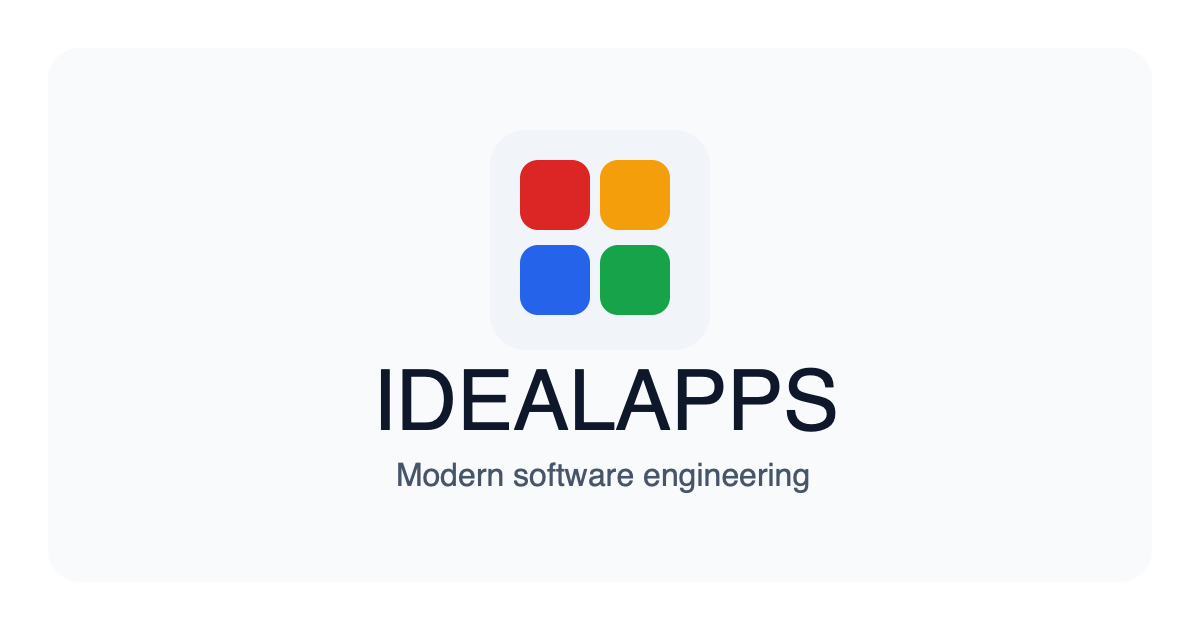
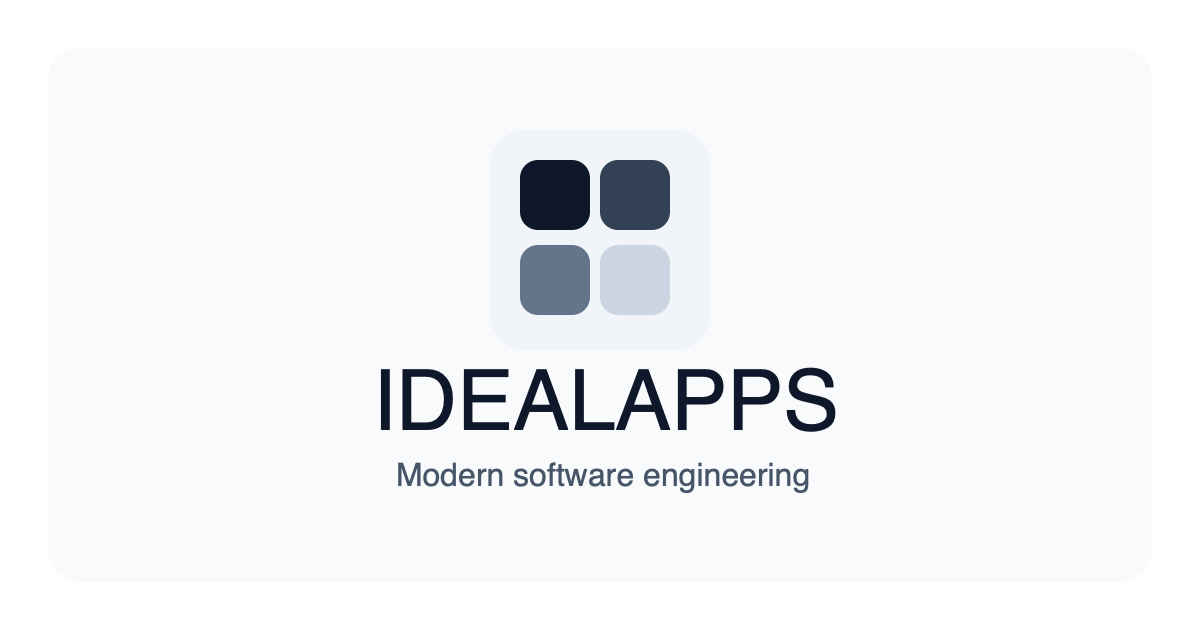
refactor: transition color palette to a monochrome slate theme

Changed region(s): [[0.4317, 0.2413, 0.5858, 0.5127]]

diff --git a/index.html b/index.html
@@ -65,10 +65,10 @@
           <div class="flex items-center justify-between gap-4 py-4">
             <a href="/" class="flex items-center gap-3 text-lg font-semibold tracking-wide text-slate-900">
             <span class="grid h-6 w-6 grid-cols-2 grid-rows-2 gap-0.5" aria-hidden="true">
-              <span class="h-full w-full rounded-sm bg-red-600"></span>
-              <span class="h-full w-full rounded-sm bg-amber-400"></span>
-              <span class="h-full w-full rounded-sm bg-blue-600"></span>
-              <span class="h-full w-full rounded-sm bg-green-600"></span>
+              <span class="h-full w-full rounded-sm bg-slate-900"></span>
+              <span class="h-full w-full rounded-sm bg-slate-700"></span>
+              <span class="h-full w-full rounded-sm bg-slate-500"></span>
+              <span class="h-full w-full rounded-sm bg-slate-300"></span>
             </span>
             <span>IDEALAPPS</span>
           </a>
@@ -77,22 +77,59 @@
               <a href="#services" class="transition hover:text-slate-900">Services</a>
               <a href="#approach" class="transition hover:text-slate-900">Approach</a>
               <a href="#contact" class="transition hover:text-slate-900">Contact</a>
-              <a href="#contact" class="rounded-full bg-blue-600 px-4 py-2 text-sm font-medium text-white transition hover:bg-blue-500">
+              <a href="https://bill.idealapps.ge" class="rounded-full border border-slate-200 bg-white px-4 py-2 text-sm font-medium text-slate-800 transition hover:bg-slate-100">
+                Login
+              </a>
+              <a href="#contact" class="rounded-full bg-slate-900 px-4 py-2 text-sm font-medium text-white transition hover:bg-slate-700">
                 Book a call
               </a>
             </nav>
           </div>
-          <button class="rounded-full border border-slate-200 p-2 text-slate-600 md:hidden" @click="open = !open" aria-label="Toggle navigation">
-            <svg xmlns="http://www.w3.org/2000/svg" fill="none" viewBox="0 0 24 24" stroke-width="1.8" stroke="currentColor" class="h-5 w-5">
+          <button
+            class="rounded-full border border-slate-200 bg-white p-2 text-slate-700 transition hover:bg-slate-100 hover:text-slate-900 md:hidden"
+            @click="open = !open"
+            :aria-expanded="open.toString()"
+            aria-label="Toggle navigation"
+          >
+            <svg x-show="!open" xmlns="http://www.w3.org/2000/svg" fill="none" viewBox="0 0 24 24" stroke-width="1.8" stroke="currentColor" class="h-5 w-5">
               <path stroke-linecap="round" stroke-linejoin="round" d="M3.75 6.75h16.5M3.75 12h16.5m-16.5 5.25h16.5" />
+            </svg>
+            <svg x-show="open" xmlns="http://www.w3.org/2000/svg" fill="none" viewBox="0 0 24 24" stroke-width="1.8" stroke="currentColor" class="h-5 w-5" style="display: none;">
+              <path stroke-linecap="round" stroke-linejoin="round" d="M6 18 18 6M6 6l12 12" />
             </svg>
           </button>
         </div>
-        <div x-show="open" x-collapse class="border-t border-slate-200 py-4 md:hidden">
-          <div class="flex flex-col gap-3 text-sm text-slate-600">
-            <a href="#services" class="transition hover:text-slate-900">Services</a>
-            <a href="#approach" class="transition hover:text-slate-900">Approach</a>
-            <a href="#contact" class="transition hover:text-slate-900">Contact</a>
+        <div
+          x-show="open"
+          x-transition.opacity.duration.150ms
+          @click.outside="open = false"
+          class="pb-4 md:hidden"
+          style="display: none;"
+        >
+          <div class="rounded-2xl border border-slate-200 bg-white p-3 shadow-lg shadow-slate-200/70">
+            <nav class="flex flex-col gap-1" aria-label="Mobile navigation">
+              <a href="#services" @click="open = false" class="flex items-center justify-between rounded-xl px-3.5 py-2.5 text-sm font-medium text-slate-700 transition hover:bg-slate-100 hover:text-slate-900">
+                <span>Services</span>
+                <span class="text-slate-400">→</span>
+              </a>
+              <a href="#approach" @click="open = false" class="flex items-center justify-between rounded-xl px-3.5 py-2.5 text-sm font-medium text-slate-700 transition hover:bg-slate-100 hover:text-slate-900">
+                <span>Approach</span>
+                <span class="text-slate-400">→</span>
+              </a>
+              <a href="#contact" @click="open = false" class="flex items-center justify-between rounded-xl px-3.5 py-2.5 text-sm font-medium text-slate-700 transition hover:bg-slate-100 hover:text-slate-900">
+                <span>Contact</span>
+                <span class="text-slate-400">→</span>
+              </a>
+            </nav>
+            <div class="my-2.5 border-t border-slate-100"></div>
+            <div class="grid grid-cols-2 gap-2.5">
+              <a href="https://bill.idealapps.ge" class="rounded-full border border-slate-200 bg-white px-4 py-2.5 text-center text-sm font-medium text-slate-800 transition hover:bg-slate-100">
+                Login
+              </a>
+              <a href="#contact" @click="open = false" class="rounded-full bg-slate-900 px-4 py-2.5 text-center text-sm font-medium text-white transition hover:bg-slate-700">
+                Book a call
+              </a>
+            </div>
           </div>
         </div>
         </div>
@@ -101,8 +138,8 @@
       <main class="mx-auto max-w-7xl px-4 sm:px-6 lg:px-8">
         <section class="grid items-center gap-10 py-20 lg:grid-cols-[1.1fr_0.9fr] lg:py-28">
           <div>
-            <div class="mb-6 inline-flex items-center gap-2 rounded-full border border-green-600/20 bg-green-50 px-3 py-1 text-sm text-green-700">
-              <span class="h-2.5 w-2.5 rounded-full bg-green-500"></span>
+            <div class="mb-6 inline-flex items-center gap-2 rounded-full border border-slate-300 bg-slate-100 px-3 py-1 text-sm text-slate-700">
+              <span class="h-2.5 w-2.5 rounded-full bg-slate-900"></span>
               Reliable delivery for modern infrastructure and products
             </div>
             <h1 class="max-w-3xl text-4xl font-semibold leading-tight sm:text-5xl lg:text-6xl">
@@ -112,7 +149,7 @@
               We help businesses build dependable applications, secure systems and automate delivery with a practical blend of software engineering, system administration and DevOps.
             </p>
             <div class="mt-8 flex flex-wrap gap-4">
-              <a href="#contact" class="rounded-full bg-blue-600 px-5 py-3 text-sm font-semibold text-white transition hover:bg-blue-500">
+              <a href="#contact" class="rounded-full bg-slate-900 px-5 py-3 text-sm font-semibold text-white transition hover:bg-slate-700">
                 Start a project
               </a>
               <a href="#services" class="rounded-full border border-slate-200 bg-white px-5 py-3 text-sm font-semibold text-slate-800 transition hover:bg-slate-100">
@@ -132,7 +169,7 @@
             <div class="mt-8 space-y-4">
               <div class="rounded-2xl border border-slate-200 bg-white p-4">
                 <div class="flex items-start gap-3">
-                  <div class="rounded-xl bg-green-600/15 p-2 text-green-600">
+                  <div class="rounded-xl bg-slate-900/10 p-2 text-slate-900">
                     <svg xmlns="http://www.w3.org/2000/svg" fill="none" viewBox="0 0 24 24" stroke-width="1.7" stroke="currentColor" class="h-5 w-5">
                       <path stroke-linecap="round" stroke-linejoin="round" d="M9 12.75 11.25 15 15 9.75M21 12a9 9 0 1 1-18 0 9 9 0 0 1 18 0Z" />
                     </svg>
@@ -146,7 +183,7 @@
 
               <div class="rounded-2xl border border-slate-200 bg-white p-4">
                 <div class="flex items-start gap-3">
-                  <div class="rounded-xl bg-green-600/15 p-2 text-green-600">
+                  <div class="rounded-xl bg-slate-900/10 p-2 text-slate-900">
                     <svg xmlns="http://www.w3.org/2000/svg" fill="none" viewBox="0 0 24 24" stroke-width="1.7" stroke="currentColor" class="h-5 w-5">
                       <path stroke-linecap="round" stroke-linejoin="round" d="M12 3.75 4.5 6.75v5.25c0 4.5 3.1 7.5 7.5 8.25 4.4-.75 7.5-3.75 7.5-8.25V6.75L12 3.75Z" />
                     </svg>
@@ -160,7 +197,7 @@
 
               <div class="rounded-2xl border border-slate-200 bg-white p-4">
                 <div class="flex items-start gap-3">
-                  <div class="rounded-xl bg-green-600/15 p-2 text-green-600">
+                  <div class="rounded-xl bg-slate-900/10 p-2 text-slate-900">
                     <svg xmlns="http://www.w3.org/2000/svg" fill="none" viewBox="0 0 24 24" stroke-width="1.7" stroke="currentColor" class="h-5 w-5">
                       <path stroke-linecap="round" stroke-linejoin="round" d="M13.5 2.25 4.5 13.5h6l-1.5 8.25 9-11.25h-6l1.5-8.25Z" />
                     </svg>
@@ -183,7 +220,7 @@
 
           <div class="mt-10 grid gap-6 lg:grid-cols-3">
             <article class="rounded-3xl border border-slate-200 bg-white p-7 shadow-lg shadow-slate-200/70 backdrop-blur">
-              <div class="mb-5 inline-flex rounded-2xl bg-green-600/15 p-3 text-green-600">
+              <div class="mb-5 inline-flex rounded-2xl bg-slate-900/10 p-3 text-slate-900">
                 <svg xmlns="http://www.w3.org/2000/svg" fill="none" viewBox="0 0 24 24" stroke-width="1.5" stroke="currentColor" class="h-6 w-6">
                   <path stroke-linecap="round" stroke-linejoin="round" d="M17.25 6.75 22.5 12l-5.25 5.25m-10.5 0L1.5 12l5.25-5.25m7.5-3-4.5 16.5" />
                 </svg>
@@ -200,7 +237,7 @@
             </article>
 
             <article class="rounded-3xl border border-slate-200 bg-white p-7 shadow-lg shadow-slate-200/70 backdrop-blur">
-              <div class="mb-5 inline-flex rounded-2xl bg-green-600/15 p-3 text-green-600">
+              <div class="mb-5 inline-flex rounded-2xl bg-slate-900/10 p-3 text-slate-900">
                 <svg xmlns="http://www.w3.org/2000/svg" fill="none" viewBox="0 0 24 24" stroke-width="1.5" stroke="currentColor" class="h-6 w-6">
                   <path stroke-linecap="round" stroke-linejoin="round" d="m6.75 7.5 3 2.25-3 2.25m4.5 0h3m-9 8.25h13.5A2.25 2.25 0 0 0 21 18V6a2.25 2.25 0 0 0-2.25-2.25H5.25A2.25 2.25 0 0 0 3 6v12a2.25 2.25 0 0 0 2.25 2.25Z" />
                 </svg>
@@ -217,7 +254,7 @@
             </article>
 
             <article class="rounded-3xl border border-slate-200 bg-white p-7 shadow-lg shadow-slate-200/70 backdrop-blur">
-              <div class="mb-5 inline-flex rounded-2xl bg-green-600/15 p-3 text-green-600">
+              <div class="mb-5 inline-flex rounded-2xl bg-slate-900/10 p-3 text-slate-900">
                 <svg xmlns="http://www.w3.org/2000/svg" fill="none" viewBox="0 0 24 24" stroke-width="1.5" stroke="currentColor" class="h-6 w-6">
                   <path stroke-linecap="round" stroke-linejoin="round" d="M19.5 12c0-1.232-.046-2.453-.138-3.662a4.006 4.006 0 0 0-3.7-3.7 48.678 48.678 0 0 0-7.324 0 4.006 4.006 0 0 0-3.7 3.7c-.017.22-.032.441-.046.662M19.5 12l3-3m-3 3-3-3m-12 3c0 1.232.046 2.453.138 3.662a4.006 4.006 0 0 0 3.7 3.7 48.656 48.656 0 0 0 7.324 0 4.006 4.006 0 0 0 3.7-3.7c.017-.22.032-.441.046-.662M4.5 12l3 3m-3-3-3 3" />
                 </svg>
@@ -264,13 +301,13 @@
         </section>
 
         <section id="contact" class="py-16">
-          <div class="rounded-3xl border border-slate-200 bg-gradient-to-r from-blue-600/10 via-white to-amber-400/10 p-8 shadow-lg shadow-slate-200/70 sm:p-10">
+          <div class="rounded-3xl border border-slate-200 bg-gradient-to-r from-slate-200/70 via-white to-slate-100 p-8 shadow-lg shadow-slate-200/70 sm:p-10">
             <div class="flex flex-col gap-6 lg:flex-row lg:items-end lg:justify-between">
               <div class="max-w-2xl">
                 <p class="text-sm uppercase tracking-[0.3em] text-slate-500">Get started</p>
                 <h2 class="mt-3 text-3xl font-semibold text-slate-900 sm:text-4xl">Let’s build dependable systems that support your next step.</h2>
                 <p class="mt-4 text-lg leading-8 text-slate-600">
-                  Whether you need a new product, infrastructure support, or faster delivery pipelines, we can help.
+                  Whether you need a new product, infrastructure support or faster delivery pipelines, we can help.
                 </p>
               </div>
               <a href="mailto:hello@idealapps.ge" class="inline-flex items-center gap-2 rounded-full border border-slate-200 bg-white px-5 py-3 text-sm font-semibold text-slate-900 transition hover:bg-slate-100">

diff --git a/guide.html b/guide.html
@@ -23,12 +23,12 @@
             <p class="mb-2 text-sm uppercase tracking-[0.35em] text-slate-400">AI Agent UI System</p>
             <h1 class="text-3xl font-semibold sm:text-4xl">Color Palette Guide</h1>
             <p class="mt-3 max-w-2xl text-base text-slate-300 sm:text-lg">
-              A clear, friendly, and high-contrast palette for AI agents built for full-site use across panels, buttons, cards, banners, and status surfaces.
+              A clear, friendly and high-contrast monochrome palette for AI agents built for full-site use across panels, buttons, cards, banners and status surfaces.
             </p>
           </div>
           <div class="rounded-2xl border border-white/10 bg-slate-900/70 px-4 py-3 text-sm text-slate-300">
             <div class="flex items-center gap-2">
-              <svg xmlns="http://www.w3.org/2000/svg" viewBox="0 0 24 24" fill="currentColor" class="h-5 w-5 text-blue-400">
+              <svg xmlns="http://www.w3.org/2000/svg" viewBox="0 0 24 24" fill="currentColor" class="h-5 w-5 text-slate-200">
                 <path fill-rule="evenodd" d="M12 2.25a.75.75 0 0 1 .75.75v1.284a7.5 7.5 0 0 1 5.216 5.216h1.284a.75.75 0 0 1 0 1.5h-1.284a7.5 7.5 0 0 1-5.216 5.216v1.284a.75.75 0 0 1-1.5 0v-1.284A7.5 7.5 0 0 1 5.284 10.5H4a.75.75 0 0 1 0-1.5h1.284A7.5 7.5 0 0 1 10.5 3.784V2.25a.75.75 0 0 1 .75-.75Zm-2.25 7.5a2.25 2.25 0 1 1 4.5 0 2.25 2.25 0 0 1-4.5 0Z" clip-rule="evenodd" />
               </svg>
               <span>FiraGo • Tailwind • Alpine.js</span>
@@ -72,7 +72,7 @@
           <div class="grid gap-4 md:grid-cols-2">
             <div class="rounded-3xl border border-white/10 bg-white/5 p-6 shadow-xl shadow-black/20 backdrop-blur">
               <div class="mb-3 flex items-center gap-3">
-                <div class="rounded-xl bg-blue-500/20 p-2 text-blue-400">
+                <div class="rounded-xl bg-white/10 p-2 text-slate-200">
                   <svg xmlns="http://www.w3.org/2000/svg" viewBox="0 0 24 24" fill="currentColor" class="h-5 w-5">
                     <path d="M11.25 4.5a.75.75 0 0 1 .75-.75h.01a.75.75 0 0 1 .75.75v2.25h2.25a.75.75 0 0 1 0 1.5h-2.25v2.25a.75.75 0 0 1-1.5 0V8.25H8.25a.75.75 0 0 1 0-1.5h2.25V4.5Z" />
                     <path fill-rule="evenodd" d="M3.75 9A2.25 2.25 0 0 1 6 6.75h12A2.25 2.25 0 0 1 20.25 9v6A2.25 2.25 0 0 1 18 17.25H6A2.25 2.25 0 0 1 3.75 15V9Zm1.5 0a.75.75 0 0 1 .75-.75h12a.75.75 0 0 1 .75.75v6a.75.75 0 0 1-.75.75H6a.75.75 0 0 1-.75-.75V9Z" clip-rule="evenodd" />
@@ -84,28 +84,28 @@
                 </div>
               </div>
               <ul class="space-y-2 text-sm text-slate-300">
-                <li>• Apply the palette to surfaces, badges, banners, buttons, and icons—not only text.</li>
-                <li>• Use soft tints for large backgrounds and stronger shades for primary actions or status panels.</li>
-                <li>• Keep one dominant accent per section and use neutrals for the rest of the interface.</li>
+                <li>• Apply the monochrome scale to surfaces, badges, banners, buttons and icons—not only text.</li>
+                <li>• Use soft slate tints for large backgrounds and deep slate-900 for primary actions or emphasis.</li>
+                <li>• Rely on contrast, weight and borders to separate hierarchy instead of chromatic accents.</li>
               </ul>
             </div>
 
             <div class="rounded-3xl border border-white/10 bg-white/5 p-6 shadow-xl shadow-black/20 backdrop-blur">
               <div class="mb-3 flex items-center gap-3">
-                <div class="rounded-xl bg-green-500/20 p-2 text-green-400">
+                <div class="rounded-xl bg-white/10 p-2 text-slate-200">
                   <svg xmlns="http://www.w3.org/2000/svg" viewBox="0 0 24 24" fill="currentColor" class="h-5 w-5">
                     <path fill-rule="evenodd" d="M19.916 4.626a.75.75 0 0 1 .208 1.04l-9 13.5a.75.75 0 0 1-1.154.114l-6-6a.75.75 0 0 1 1.06-1.06l5.353 5.353 8.493-12.74a.75.75 0 0 1 1.04-.208Z" clip-rule="evenodd" />
                   </svg>
                 </div>
                 <div>
                   <h3 class="font-semibold">Accessibility</h3>
-                  <p class="text-sm text-slate-400">Readable, friendly, and inclusive.</p>
+                  <p class="text-sm text-slate-400">Readable, friendly and inclusive.</p>
                 </div>
               </div>
               <ul class="space-y-2 text-sm text-slate-300">
-                <li>• Keep text on colored surfaces at a contrast ratio above WCAG AA.</li>
-                <li>• For a truer yellow look, use amber-400 or amber-500 as an accent and pair it with dark text.</li>
-                <li>• Pair icons with labels where possible and never rely on color alone.</li>
+                <li>• Keep text on monochrome surfaces at a contrast ratio above WCAG AA.</li>
+                <li>• Pair dark slate-900 backgrounds with white text and light slate-100 surfaces with slate-800 or slate-900 text.</li>
+                <li>• Pair icons with labels where possible and never rely on shade alone.</li>
               </ul>
             </div>
           </div>
@@ -142,11 +142,11 @@
             <div class="space-y-3 text-sm text-slate-300">
               <div class="rounded-xl border border-white/10 bg-slate-900/70 p-3">
                 <p class="font-medium text-white">Tailwind classes</p>
-                <p class="mt-1 text-slate-400">bg-red-600 / bg-amber-400 / bg-blue-600 / bg-green-600</p>
+                <p class="mt-1 text-slate-400">bg-slate-900 / bg-slate-700 / bg-slate-500 / bg-slate-300</p>
               </div>
               <div class="rounded-xl border border-white/10 bg-slate-900/70 p-3">
                 <p class="font-medium text-white">Heroicons style</p>
-                <p class="mt-1 text-slate-400">Use simple inline SVGs for status, actions, and guidance.</p>
+                <p class="mt-1 text-slate-400">Use simple inline SVGs for status, actions and guidance.</p>
               </div>
               <div class="rounded-xl border border-white/10 bg-slate-900/70 p-3">
                 <p class="font-medium text-white">Alpine.js</p>
@@ -161,39 +161,39 @@
     <script>
       function paletteGuide() {
         return {
-          active: 'red',
+          active: 'ink',
           palette: [
             {
-              name: 'red',
-              label: 'Red',
-              intent: 'Error / Alert',
-              swatch: 'bg-red-600',
-              description: 'Use for urgent issues, failed tasks, or destructive actions.',
-              example: '“The agent could not complete the request. Review the input and try again.”'
+              name: 'ink',
+              label: 'Slate 900',
+              intent: 'Primary / Ink',
+              swatch: 'bg-slate-900 border border-white/15',
+              description: 'Use for primary buttons, headings, active indicators and high-contrast surfaces.',
+              example: '“Primary actions and headings use slate-900 for crisp contrast.”'
             },
             {
-              name: 'yellow',
-              label: 'Yellow',
-              intent: 'Warning / Review',
-              swatch: 'bg-amber-400',
-              description: 'Use for caution, pending review, or attention-required moments.',
-              example: '“The result looks incomplete. Double-check the latest context.”'
+              name: 'charcoal',
+              label: 'Slate 700',
+              intent: 'Hover / Secondary',
+              swatch: 'bg-slate-700',
+              description: 'Use for hover states, secondary emphasis and strong supporting labels.',
+              example: '“Interactive buttons transition smoothly from slate-900 to slate-700.”'
             },
             {
-              name: 'blue',
-              label: 'Blue',
-              intent: 'Info / Processing',
-              swatch: 'bg-blue-600',
-              description: 'Use for helpful context, active work, and information panels.',
-              example: '“The agent is gathering context and preparing the next step.”'
+              name: 'muted',
+              label: 'Slate 500',
+              intent: 'Metadata / Subtle',
+              swatch: 'bg-slate-500',
+              description: 'Use for eyebrows, captions, footer text and secondary brand marks.',
+              example: '“Section labels and metadata stay calm in slate-500.”'
             },
             {
-              name: 'green',
-              label: 'Green',
-              intent: 'Success / Done',
-              swatch: 'bg-green-600',
-              description: 'Use for successful completion, positive confirmations, and progress.',
-              example: '“The task completed successfully and is ready to review.”'
+              name: 'border',
+              label: 'Slate 300',
+              intent: 'Surface / Border',
+              swatch: 'bg-slate-300',
+              description: 'Use for dividers, card borders, soft badges and light brand tiles.',
+              example: '“Cards and secondary buttons stay structured with clean slate borders.”'
             }
           ],
           get selectedColor() {
